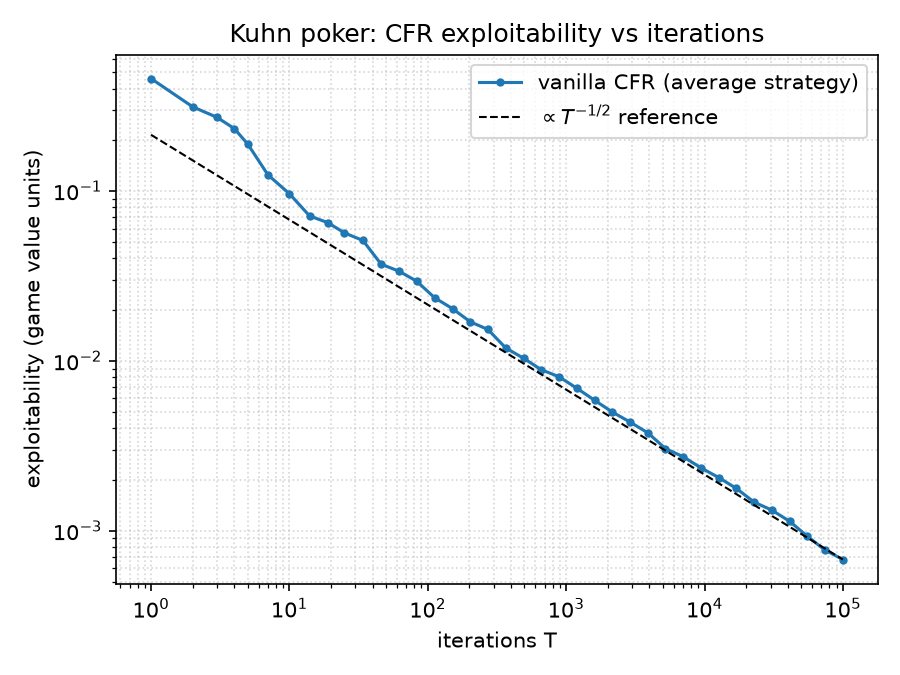
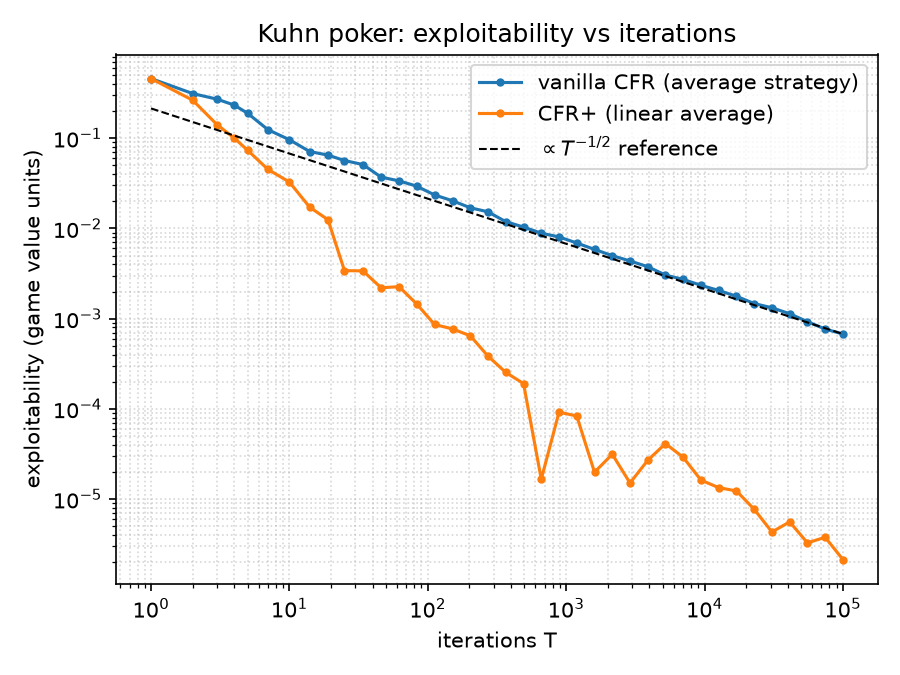
P3.3: plot both solvers on convergence chart; speedup results entry

diff --git a/analysis/plot_convergence.py b/analysis/plot_convergence.py
@@ -1,4 +1,4 @@
-"""Log-log plot of exploitability vs iterations from analysis/kuhn_convergence.csv -> analysis/kuhn_convergence.png."""
+"""Log-log plot of exploitability vs iterations for every solver in analysis/kuhn_convergence.csv -> analysis/kuhn_convergence.png."""
 import csv
 import os
 import sys
@@ -11,21 +11,36 @@ matplotlib.use("Agg")
 import matplotlib.pyplot as plt
 import numpy as np
 
+LABELS = {"cfr": "vanilla CFR (average strategy)", "cfr_plus": "CFR+ (linear average)"}
+
 
 def main(csv_path="analysis/kuhn_convergence.csv", out="analysis/kuhn_convergence.png"):
     with open(csv_path, newline="") as f:
         rows = list(csv.DictReader(f))
-    it = np.array([float(r["iter"]) for r in rows])
-    ex = np.array([float(r["exploitability"]) for r in rows])
+    by_solver = {}
+    for r in rows:
+        by_solver.setdefault(r["solver"], []).append(r)
 
     fig, ax = plt.subplots(figsize=(6, 4.5))
-    ax.loglog(it, ex, "o-", ms=3, label="vanilla CFR (average strategy)")
-    # O(1/sqrt(T)) reference line anchored at the last point
+    slopes = {}
+    ref_anchor = None
+    for solver, srows in by_solver.items():
+        it = np.array([float(r["iter"]) for r in srows])
+        ex = np.array([float(r["exploitability"]) for r in srows])
+        ax.loglog(it, ex, "o-", ms=3, label=LABELS.get(solver, solver))
+        if solver == "cfr" or ref_anchor is None:
+            ref_anchor = (it, ex)
+        # log-log slope over the last decade of the run (where the trend is clean)
+        mask = it >= it[-1] / 10
+        slopes[solver] = np.polyfit(np.log(it[mask]), np.log(ex[mask]), 1)[0]
+
+    # O(1/sqrt(T)) reference line anchored at the last point of the vanilla CFR run
+    it, ex = ref_anchor
     ref = ex[-1] * np.sqrt(it[-1] / it)
     ax.loglog(it, ref, "k--", lw=1, label=r"$\propto T^{-1/2}$ reference")
     ax.set_xlabel("iterations T")
     ax.set_ylabel("exploitability (game value units)")
-    ax.set_title("Kuhn poker: CFR exploitability vs iterations")
+    ax.set_title("Kuhn poker: exploitability vs iterations")
     ax.grid(True, which="both", ls=":", alpha=0.5)
     ax.legend()
     fig.tight_layout()
@@ -33,10 +48,8 @@ def main(csv_path="analysis/kuhn_convergence.csv", out="analysis/kuhn_convergenc
     fig.savefig(out, dpi=150)
     plt.close(fig)
 
-    # log-log slope over the second half of the run (where the trend is clean)
-    mask = it >= it[-1] / 10
-    slope = np.polyfit(np.log(it[mask]), np.log(ex[mask]), 1)[0]
-    print(f"plot_convergence: {len(rows)} pts, slope(T>={int(it[-1] / 10)})={slope:.3f}, wrote {out}")
+    slope_txt = ", ".join(f"{s} slope={v:.3f}" for s, v in slopes.items())
+    print(f"plot_convergence: {len(rows)} pts, {slope_txt}, wrote {out}")
 
 
 if __name__ == "__main__":

diff --git a/PLAN.md b/PLAN.md
@@ -23,7 +23,7 @@ Long runs go in scripts/ and write to analysis/*.csv. Tests stay under ~10 s tot
 ## Phase 3: CFR+
 - [x] P3.1 | sonnet | solvers/cfr_plus.py: regrets floored at 0 (regret-matching+), alternating updates, linearly weighted average strategy | done when: tests pass: Kuhn value within 0.005 of -1/18 after 1000 iters, exploitability < vanilla CFR at same iters
 - [x] P3.2 | sonnet | Extend scripts/kuhn_convergence.py with --solver cfr_plus; append to csv; compute speedup = iters for vanilla to reach exploitability 1e-3 / iters for CFR+, print one summary line and write analysis/kuhn_speedup.csv | done when: both solvers in csv, speedup csv exists
-- [ ] P3.3 | haiku | Update plot_convergence.py to draw both solvers on one log-log chart; results.md entry for speedup with command | done when: png shows 2 lines, results.md updated
+- [x] P3.3 | haiku | Update plot_convergence.py to draw both solvers on one log-log chart; results.md entry for speedup with command | done when: png shows 2 lines, results.md updated
 - [ ] P3.4 | sonnet | Docs: LEARNING.md Phase 3 entry (CFR+ changes and why they speed up convergence, LaTeX, 3 Q&As); README CFR+ row | done when: files updated, `pytest -q` passes
 - [ ] P3.5 | opus | VERIFY Phase 3: review cfr_plus.py (floor at 0, averaging weights, alternation), rerun convergence script, confirm speedup number matches csv; mark Phase 3 DONE in PROGRESS.md | done when: checks pass and PROGRESS.md says Phase 3 DONE
 

diff --git a/PROGRESS.md b/PROGRESS.md
@@ -14,3 +14,4 @@
 - P2.6 VERIFY: best_response.py reviewed, no peeking (one action per infoset, key = own card + public history, states weighted by opp*chance reach); exploitability of analytic eq < 1e-9, CFR expl strictly decreasing 100/1k/5k (new test); csv log-log slope -0.517 (T>=100), -0.544 (T>=10k), final 6.76e-4 at 100k; no fixes needed; pytest -q 39 passed. **Phase 2 DONE.**
 - P3.1 solvers/cfr_plus.py (CFRPlus: floor regrets, alternating, linear avg) + tests/test_cfr_plus.py; 1000 iters expl CFR+ 8.7e-5 vs vanilla 7.3e-3; pytest -q 42 passed.
 - P3.2 kuhn_convergence.py --solver {cfr,cfr_plus} (rows replaced per solver) + analysis/kuhn_speedup.csv; iters to expl<1e-3: cfr=43080, cfr_plus=130, speedup 331x; pytest -q passes. Repro: python scripts/kuhn_convergence.py --solver cfr && python scripts/kuhn_convergence.py --solver cfr_plus. Note: plot_convergence.py not yet solver-aware (P3.3).
+- P3.3 analysis/plot_convergence.py draws cfr + cfr_plus on one log-log chart (kuhn_convergence.png); results.md speedup entry (43080 vs 130 = 331x) with repro cmds; pytest -q 42 passed.

diff --git a/analysis/results.md b/analysis/results.md
@@ -16,3 +16,26 @@ python analysis/plot_convergence.py
 ```
 
 Expected summary line from the second command: `plot_convergence: 38 pts, slope(T>=10000)=-0.544, wrote analysis/kuhn_convergence.png`
+
+## Kuhn: CFR+ vs vanilla CFR speedup
+
+Target: exploitability < 1e-3. First iteration reaching it, from `analysis/kuhn_speedup.csv`:
+
+| solver | iters to expl < 1e-3 |
+|---|---|
+| vanilla CFR | 43,080 |
+| CFR+ | 130 |
+
+Speedup: 331x (43080 / 130 = 331.38).
+
+Plot with both solvers: `analysis/kuhn_convergence.png` (log-log, exploitability vs iterations, T^-1/2 reference).
+
+Reproduce:
+
+```
+python scripts/kuhn_convergence.py --solver cfr
+python scripts/kuhn_convergence.py --solver cfr_plus
+python analysis/plot_convergence.py
+```
+
+Expected summary line from the last command: `plot_convergence: 76 pts, cfr slope=-0.544, cfr_plus slope=-0.849, wrote analysis/kuhn_convergence.png`
